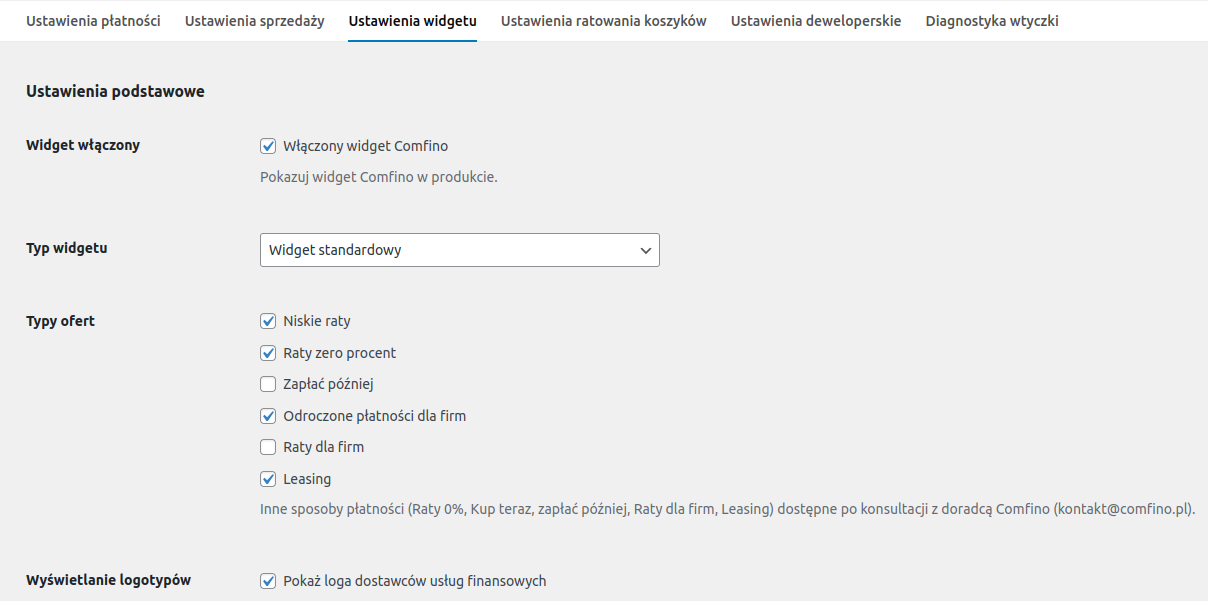
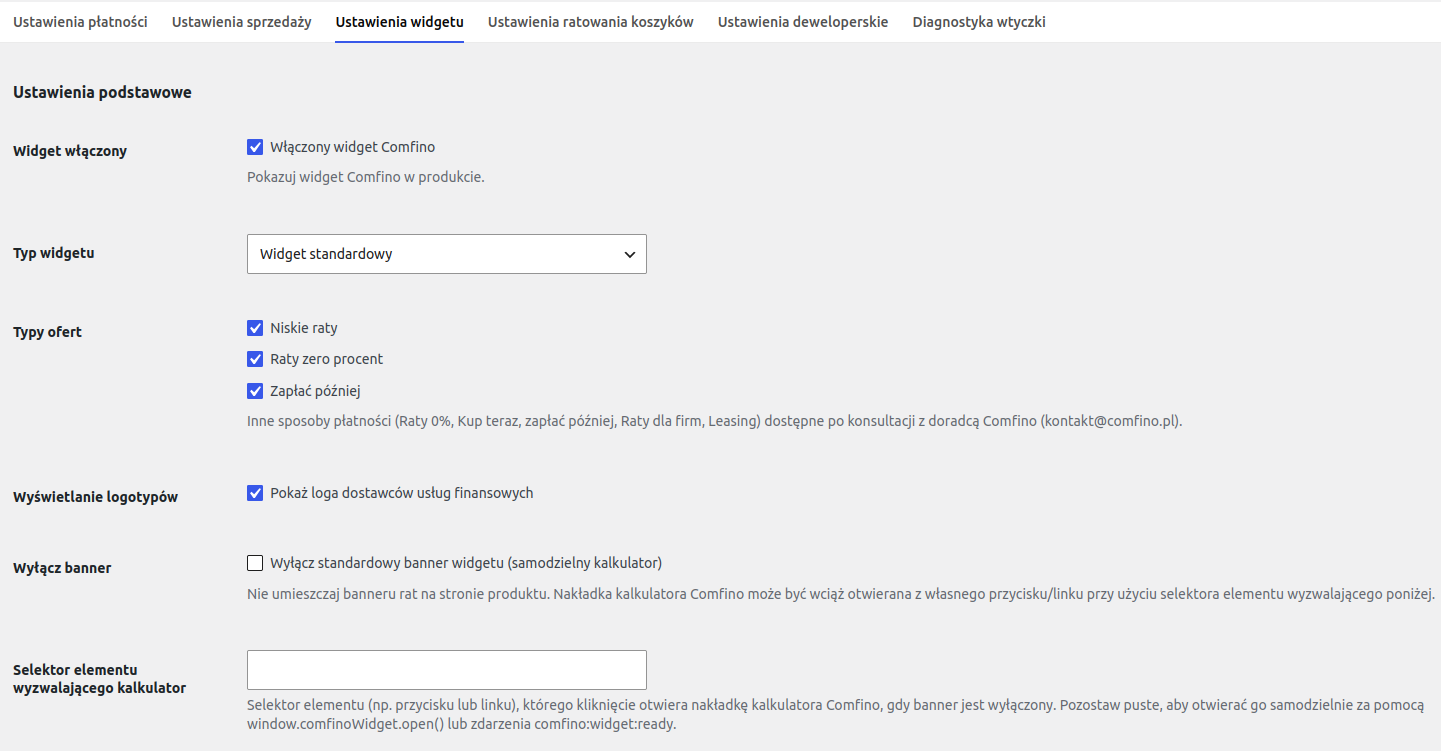
FN-14807 Update docs

diff --git a/docs/comfino.pl.md b/docs/comfino.pl.md
@@ -26,9 +26,11 @@ Pola parametrów konfiguracyjnych:
 
 * **Włączony/Wyłączony** — status aktywności modułu Comfino (widoczność na liście metod płatności w koszyku)
 * **Klucz API środowiska produkcyjnego** — unikalny klucz dostępowy umożliwiający komunikację modułu z API Comfino (otrzymasz go od przedstawiciela Comfino)
-* **Tytuł** — tekst wyświetlany na liście metod płatności (domyślnie `"Comfino"`)
+* **Niestandardowa etykieta płatności** — przełącznik włączający niestandardowy tekst etykiety płatności; gdy wyłączony, etykieta pozycji płatności w zamówieniu jest budowana na podstawie wybranych rodzajów produktów finansowych
+* **Tekst płatności** — etykieta wyświetlana dla Comfino na liście metod płatności w zamówieniu (używana tylko, gdy niestandardowa etykieta płatności jest włączona)
+* **Rodzaje produktów w etykiecie płatności** — rodzaje produktów finansowych, których nazwy zostaną wyświetlone w etykiecie metody płatności w zamówieniu, gdy niestandardowa etykieta płatności jest wyłączona (do wyboru maksymalnie dwa rodzaje produktów finansowych)
 * **Minimalna kwota w koszyku** — kwota, powyżej której będzie wyświetlana płatność i widget Comfino
-* **Wyświetlanie logo** — status widoczności logo Comfino obok tytułu na liście metod płatności (domyślnie: włączone)
+* **Limity wartości koszyka dla poszczególnych typów produktów finansowych** — opcjonalne ograniczenia minimalnej/maksymalnej wartości koszyka dla każdego typu produktu finansowego, stosowane dodatkowo do globalnej minimalnej kwoty w koszyku
 * **Numer zamówienia** — Używaj numeru zamówienia widocznego dla klienta zamiast numerycznego ID zamówienia w komunikacji z API Comfino. Dotyczy tylko nowych zamówień.
 
 **Ustawienia paywalla**
@@ -68,9 +70,11 @@ Filtr po ID produktu działa niezależnie od filtrów kategorii produktowych.
 **Ustawienia podstawowe**
 
 * **Widget włączony** — przełącznik aktywacji/deaktywacji widgetu promocyjnego na stronie produktu
-* **Typ widgetu** — sposób prezentacji widgetu [`Widget standardowy`, `Widget klasyczny`]
+* **Typ widgetu** — sposób prezentacji widgetu [`Widget standardowy`, `Widget klasyczny`, `Widget pusty`]
 * **Typy ofert** — typy promowanych ofert finansowania [`Raty zero procent`, `Niskie raty`, `Zapłać później`, `Raty dla firm`, `Odroczone płatności dla firm`, `Leasing`]
 * **Wyświetlanie logotypów** — przełącznik umożliwiający pokazanie loga każdego z dostępnych dostawców finansowych
+* **Wyłącz banner** — nie umieszczaj banneru rat na stronie produktu (tryb samodzielnego kalkulatora); nakładka kalkulatora Comfino może być wciąż otwierana z własnego przycisku/linku przy użyciu selektora elementu wyzwalającego
+* **Selektor elementu wyzwalającego kalkulator** — selektor elementu (np. przycisku lub linku), którego kliknięcie otwiera nakładkę kalkulatora Comfino, gdy banner jest wyłączony
 
 Dostępność typów ofert na liście jest uzależniona od indywidualnej umowy i może różnić się od tej opisanej w dokumentacji.
 
@@ -79,13 +83,13 @@ Dostępność typów ofert na liście jest uzależniona od indywidualnej umowy i
 **Ustawienia zaawansowane**
 
 * **Selektor elementu ceny widgetu** — element dokumentu HTML zawierający cenę produktu
+* **Atrybut elementu ceny widgetu** — atrybut elementu ceny zawierający liczbową wartość ceny; po ustawieniu widget odczytuje cenę z tego atrybutu zamiast analizować tekst elementu, co pozwala uniknąć sytuacji wyścigu przy asynchronicznym renderowaniu ceny
 * **Selektor elementu zakotwiczenia widgetu** — element kontenera widgetu (w nim jest osadzany widget)
 * **Wykrywanie zmian ceny — selektor kontenera** — element dokumentu HTML zawierający w sobie element ceny bezpośrednio lub pośrednio używany do śledzenia zmian cen i przeliczania ofert
 * **Wykrywanie zmian ceny — poziom hierarchii kontenera** — poziom hierarchii DOM używany do śledzenia zmian cen i przeliczania ofert
 * **Metoda osadzania** — sposób orientacji widgetu względem elementu kontenera [`INSERT_INTO_FIRST`, `INSERT_INTO_LAST`, `INSERT_BEFORE`, `INSERT_AFTER`]
 * **Niestandardowy styl CSS banera** — Odnośnik do pliku CSS ze stylami nadpisującymi wygląd banera (akceptowane są tylko adresy bezwzględne z domeny sklepu)
 * **Niestandardowy styl CSS kalkulatora** — Odnośnik do pliku CSS ze stylami nadpisującymi wygląd kalkulatora (akceptowane są tylko adresy bezwzględne z domeny sklepu)
-* **Kod inicjalizacji widgetu** — skrypt JavaScript inicjalizujący widget na stronie produktu (wprowadzanie zmian niezalecane dla niezaawansowanych użytkowników bez znajomości JavaScript)
 
 Szczegółowe informacje o działaniu widgetu i jego opcjach konfiguracyjnych znajdziesz w osobnej [dokumentacji widgetu Comfino](https://comfino.pl/widgets/comfino-woocommerce/pl).
 

diff --git a/docs/comfino.en.md b/docs/comfino.en.md
@@ -27,9 +27,11 @@ Configuration parameter fields:
 
 * **Enable/Disable** — activity status of the Comfino module (visibility on the list of payment methods in the basket)
 * **Production environment API key** — a unique access key that allows the module to communicate with the Comfino API (you will receive it from a Comfino representative)
-* **Title** — text displayed on the list of payment methods (default `"Comfino"`)
+* **Custom payment label** — switch enabling a custom payment label text; when disabled, the checkout item label is built from the payment label product types selected instead
+* **Payment text** — label displayed for Comfino in the checkout payment method list (used only when the custom payment label is enabled)
+* **Payment label product types** — financial product types whose names are shown in the checkout payment method label when the custom payment label is disabled (up to two financial product types can be selected)
 * **Minimal amount in cart** — amount above which the Comfino payment and widget will be displayed
-* **Show logo** — visibility status of the Comfino logo next to the title at the list of payment methods (default: enabled)
+* **Cart value limits per financial product type** — optional minimum/maximum cart value limits for each financial product type, applied on top of the global minimal cart amount
 * **Order number** — Use customer-visible order reference instead of numeric order ID for Comfino API integration. New orders only.
 
 **Paywall settings**
@@ -69,9 +71,11 @@ The product ID filter works independently of the product category filters.
 **Basic Settings**
 
 * **Widget enable** — promotional widget activation/deactivation switch on the product page
-* **Widget type** — way of presenting the widget [`Standard widget`, `Classic widget`]
+* **Widget type** — way of presenting the widget [`Standard widget`, `Classic widget`, `Blank widget`]
 * **Offer types** — types of financing offers promoted [`Zero percent installments`, `Convenient installments`, `Pay later`, `Installments for companies`, `Deferred payments for companies`, `Leasing`]
 * **Show logos** — switch enabling to display the logo of each available financial provider
+* **Disable banner** — do not embed the installment banner on the product page (standalone calculator mode); the Comfino calculator overlay can still be opened from your own button/link using the trigger element selector
+* **Calculator trigger element selector** — selector of the element (e.g. a button or link) whose click opens the Comfino calculator overlay when the banner is disabled
 
 The availability of offer types on the list depends on the individual contract and may differ from that described in the documentation.
 
@@ -80,13 +84,13 @@ The availability of offer types on the list depends on the individual contract a
 **Advanced settings**
 
 * **Widget price element selector** — HTML document element containing the price of the product
+* **Widget price element attribute** — attribute of the price element holding the numeric price value; when set, the widget reads the price from this attribute instead of parsing the element text, which avoids a race with asynchronous price rendering
 * **Widget anchor element selector** — widget container element (widget is embedded in it)
 * **Price change detection — container selector** — HTML document element containing a price element directly or indirectly used to track price changes and recalculate offers
 * **Price change detection — container hierarchy level** — DOM hierarchy level used to track price changes and recalculate offers
 * **Embedding method** — how the widget is oriented relative to the container element [`INSERT_INTO_FIRST`, `INSERT_INTO_LAST`, `INSERT_BEFORE`, `INSERT_AFTER`]
 * **Custom banner CSS style** — Link to a CSS file with styles overriding the banner's appearance (only absolute addresses from the store's domain are accepted)
 * **Custom calculator CSS style** — Link to a CSS file with styles overriding the calculator's appearance (only absolute addresses from the store's domain are accepted)
-* **Widget initialization code** — JavaScript script to initialize the widget on the product page (making changes not recommended for non-advanced users without JavaScript knowledge)
 
 Detailed information on the operation of the widget and its configuration options can be found in a separate [Comfino widget documentation](https://comfino.pl/widgets/comfino-woocommerce/en).
 
